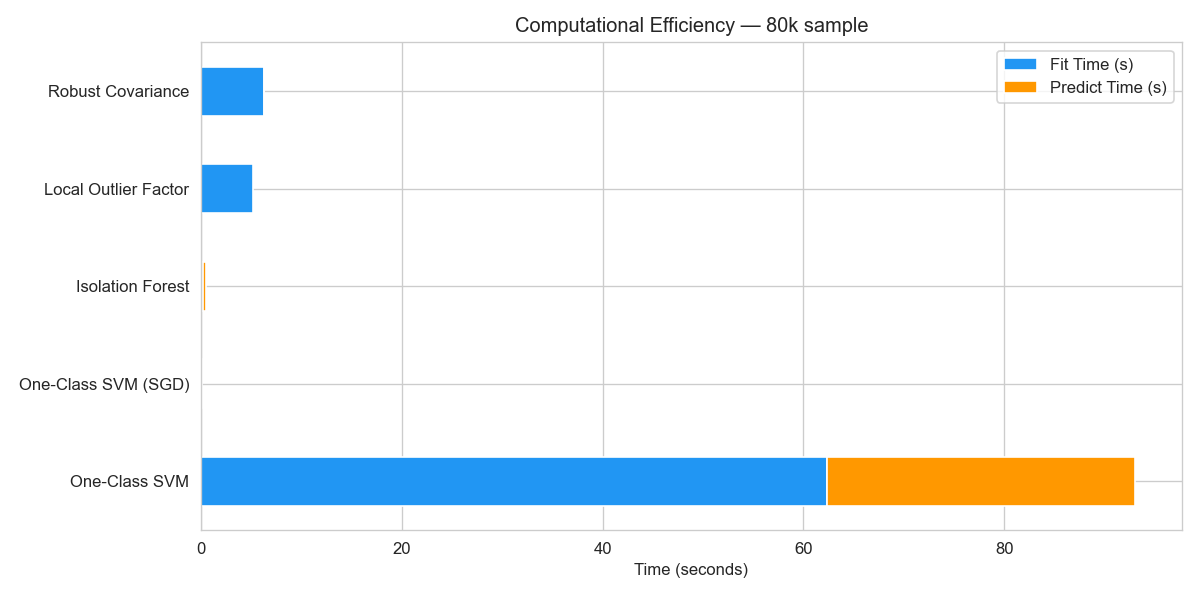
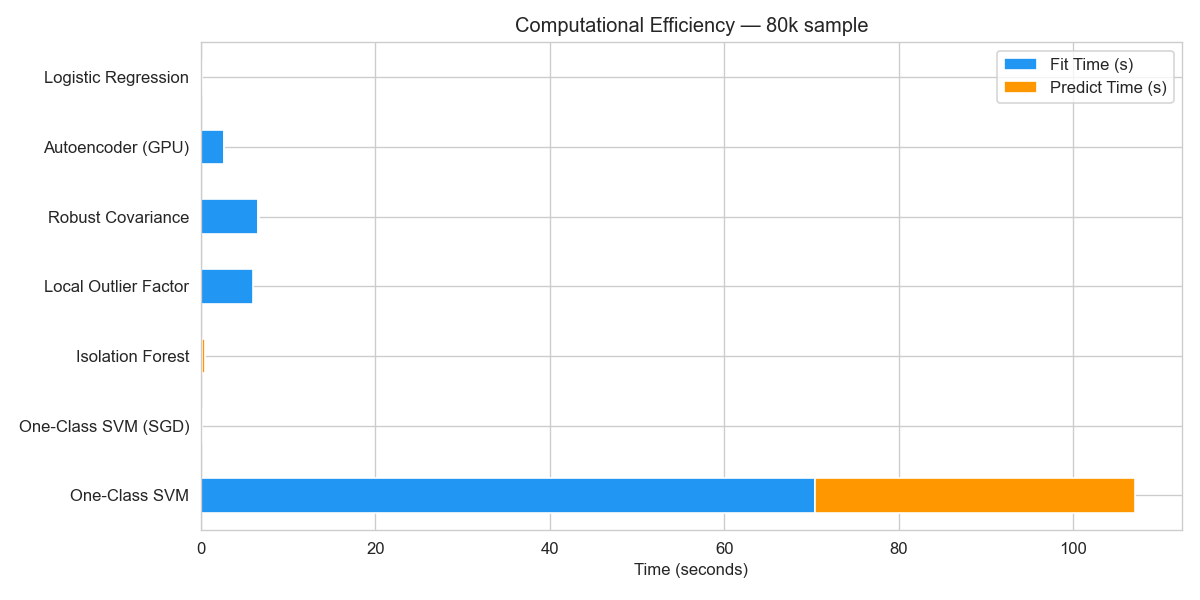
docs: add GPU autoencoder results and CPU/GPU caveat

diff --git a/README.md b/README.md
@@ -108,8 +108,9 @@ why **ROC-AUC**, which is threshold-independent, becomes the primary metric.
 | 3 | **Isolation Forest** | Random trees — anomalies need fewer splits to isolate |
 | 4 | **Local Outlier Factor** | Compares local density of a point to its neighbors (`novelty=False`, `fit_predict`) |
 | 5 | **Robust Covariance** | Fits a Gaussian ellipse — points outside = anomalies |
+| 6 | **Autoencoder (GPU)** | Neural net trained to reconstruct the data; reconstruction error = anomaly score. The only model trained on the GPU (PyTorch). |
 
-All five trained and scored on the identical 80,000-row subsample.
+All six trained and scored on the identical 80,000-row subsample.
 
 ### Results
 
@@ -120,6 +121,7 @@ All five trained and scored on the identical 80,000-row subsample.
 | Isolation Forest | 95.60% | 2.97% | 84.25% | 5.73% | 0.9612 | -26.75 | 4.51% |
 | Local Outlier Factor | 92.77% | 0.44% | 19.69% | 0.86% | 0.5481 | -44.63 | 7.14% |
 | Robust Covariance | 61.08% | 0.38% | 92.91% | 0.75% | 0.8882 | -244.53 | 39.05% |
+| Autoencoder (GPU) | 92.55% | 1.82% | 86.61% | 3.56% | 0.9523 | -46.01 | 7.57% |
 
 **Best ROC-AUC: One-Class SVM (0.9635)**, with Isolation Forest essentially tied
 (0.9612) and far more stable across sizes (see the sweep). On the **threshold-
@@ -135,6 +137,7 @@ thresholded F1 scores stay low for everyone. Best F1 at 80k is One-Class SVM
 - **Robust Covariance (good ranker, heavy over-flagging)** — ROC-AUC 0.8882 and recall 93%, but its MAD cutoff flags ~39% of all points, so precision is 0.38% and R² craters to ≈ -245. A good ranker wrecked by an over-eager threshold.
 - **Local Outlier Factor (collapsing)** — ROC-AUC just 0.5481, barely above random at 80k. Its local-density signal does not separate fraud at this scale, and the picture worsens with size (see the sweep).
 - **One-Class SVM (SGD) — inverted** — ROC-AUC 0.0504, *below* 0.5, i.e. worse than random: the linear SGD solver learns a near-inverted score, a genuine optimisation pathology rather than a data-volume issue.
+- **Autoencoder (GPU) — strong, stable unsupervised ranker** — ROC-AUC 0.9523 and recall 87% at 80k. Across all four sizes its ROC-AUC stays in the 0.93–0.97 band (high recall 84–89%), GPU-fast at 2.6–6.8 s. Its MAD cutoff over-flags at 7.6% implied contamination, so thresholded F1 (3.6%) stays low — the same threshold story that caps every other ranker here.
 
 R² is strongly negative for every model — binary predictions over-flag relative to the 0.17% base rate — and is most extreme for Robust Covariance (≈ -245). It confirms the over-flagging story but does not discriminate between the good and bad rankers; that job belongs to ROC-AUC.
 
@@ -142,20 +145,23 @@ R² is strongly negative for every model — binary predictions over-flag relati
 
 | Model | Fit Time (s) | Predict Time (s) | Total (s) |
 |-------|-------------|------------------|-----------|
-| One-Class SVM | 62.36 | 30.69 | 93.04 |
-| One-Class SVM (SGD) | 0.05 | 0.02 | 0.06 |
-| Isolation Forest | 0.18 | 0.29 | 0.46 |
-| Local Outlier Factor | 5.22 | 0.00 | 5.22 |
-| Robust Covariance | 6.24 | 0.03 | 6.28 |
+| One-Class SVM | 70.44 | 36.68 | 107.13 |
+| One-Class SVM (SGD) | 0.06 | 0.01 | 0.07 |
+| Isolation Forest | 0.17 | 0.31 | 0.47 |
+| Local Outlier Factor | 5.92 | 0.00 | 5.92 |
+| Robust Covariance | 6.59 | 0.03 | 6.62 |
+| Autoencoder (GPU) | 2.60 | 0.02 | 2.63 |
 
-One-Class SVM (RBF) is by far the slowest (~O(n²)) — and with `nu=0.05` it is now
-markedly slower than before (93 s at 80k). Isolation Forest is the strongest
+One-Class SVM (RBF) is by far the slowest (~O(n²)) — at 107 s at 80k it is
+markedly slower than Isolation Forest. Isolation Forest is the strongest
 ranker **and** the fastest with a real `predict`. LOF fits and predicts in one
 `fit_predict` step, so its predict time is reported as 0.
 
+> **CPU vs GPU caveat:** The Autoencoder is the only model trained on the GPU (PyTorch on an RTX 3050 Ti); the other models are CPU-only scikit-learn. Its runtime column therefore is **not apples-to-apples** — it includes GPU compute plus host↔device transfer on different hardware. **ROC-AUC, being threshold- and hardware-independent, is the fair cross-model comparison.** GPU training is also inherently CPU+GPU cooperative (the CPU loads and batches data; the GPU does the forward/backward math), so "GPU-only" training does not exist.
+
 **Plots generated:**
 1. Performance metrics bar chart (accuracy, precision, recall, F1)
-2. Confusion matrices for all 5 algorithms
+2. Confusion matrices for all 6 algorithms
 3. Computational efficiency comparison (horizontal bar chart)
 
 ### Limitations
@@ -192,6 +198,7 @@ quality directly rather than how well the MAD cutoff happens to match the base r
 |---|---|---|---|---|
 | **Isolation Forest** | **0.9809** | **0.9612** | **0.9489** | **0.9467** |
 | One-Class SVM | 0.9796 | 0.9635 | 0.9470 | 0.9430 |
+| Autoencoder (GPU) | 0.9718 | 0.9523 | 0.9325 | 0.9432 |
 | Robust Covariance | 0.9389 | 0.8882 | 0.9250 | 0.9191 |
 | Local Outlier Factor | 0.7696 | 0.5481 | 0.5052 | 0.5099 |
 | One-Class SVM (SGD) | 0.0185 | 0.0504 | 0.1389 | 0.3668 |
@@ -205,6 +212,7 @@ over-flags relative to the 0.17% base rate.
 |---|---|---|---|---|
 | One-Class SVM | 0.00% | 16.49% | 15.94% | 15.26% |
 | Isolation Forest | 5.10% | 5.73% | 5.89% | 5.47% |
+| Autoencoder (GPU) | 5.20% | 3.56% | 2.57% | 3.23% |
 | One-Class SVM (SGD) | 0.00% | 0.00% | 1.22% | 7.28% |
 | Local Outlier Factor | 1.28% | 0.86% | 0.68% | 0.64% |
 | Robust Covariance | 0.71% | 0.75% | 0.75% | 0.72% |
@@ -213,11 +221,12 @@ over-flags relative to the 0.17% base rate.
 
 | Model | 30k | 80k | 150k | 230k |
 |---|---|---|---|---|
-| Isolation Forest | 0.29 | 0.46 | 0.88 | 1.20 |
-| One-Class SVM (SGD) | 0.02 | 0.06 | 0.14 | 0.24 |
-| Robust Covariance | 2.63 | 6.28 | 12.12 | 20.46 |
-| Local Outlier Factor | 3.43 | 5.22 | 17.90 | 43.26 |
-| One-Class SVM | 13.85 | 93.04 | 324.66 | **717.48** |
+| One-Class SVM (SGD) | 0.03 | 0.07 | 0.17 | 0.28 |
+| Isolation Forest | 0.30 | 0.47 | 1.07 | 1.67 |
+| Autoencoder (GPU) | 2.67 | 2.63 | 5.25 | 6.82 |
+| Robust Covariance | 2.76 | 6.62 | 16.11 | 24.31 |
+| Local Outlier Factor | 3.55 | 5.92 | 25.39 | 57.15 |
+| One-Class SVM | 16.52 | 107.13 | 370.36 | **893.62** |
 
 ### What the sweep shows
 
@@ -233,9 +242,9 @@ over-flags relative to the 0.17% base rate.
   size, i.e. consistently worse than random. This is an optimisation pathology of
   the linear SGD solver, not a data-volume problem.
 - **Runtime: OCSVM is now both quadratic *and* slower** — with `nu=0.05` it runs
-  13.8 → 93 → 325 → 717 s for 30k → 230k (an empirical exponent ≈ 2.0, matching
+  16.5 → 107 → 370 → 894 s for 30k → 230k (an empirical exponent ≈ 2.0, matching
   kernel-matrix complexity). Isolation Forest stays effectively flat (0.3 s →
-  1.2 s), so more data buys OCSVM runtime, not ranking quality.
+  1.7 s), so more data buys OCSVM runtime, not ranking quality.
 
 Cross-size plots (`results/comparison/rocauc_vs_size.png`, `f1_vs_size.png`,
 `runtime_vs_size.png`) summarise this in one glance — `runtime_vs_size.png`
@@ -296,7 +305,7 @@ exactly the future work the paper recommends in its Conclusion and Limitations.
   practical anomaly detection scenarios"*.
 - **Our sample-size sweep extends the paper's scalability discussion** with
   empirical numbers: OCSVM's runtime exponent ≈ 2.0 (clean quadratic, now slower
-  at `nu=0.05`), while Isolation Forest stays effectively flat (0.3 s → 1.2 s for
+  at `nu=0.05`), while Isolation Forest stays effectively flat (0.3 s → 1.7 s for
   30k → 230k) and its ROC-AUC stays in the 0.95–0.98 band throughout.
 
 In short: this project is not a re-implementation of the paper — it is the
@@ -312,7 +321,7 @@ data-driven MAD cutoff on its own anomaly scores (`MAD_K=3.0`), so the true frau
 rate never touches the pipeline. Judged by the **threshold-independent ROC-AUC**,
 **Isolation Forest (0.95–0.98) and One-Class SVM (0.94–0.98) are excellent and
 stable rankers of fraud across 30k–230k rows** — Isolation Forest with the added
-advantage of being orders of magnitude faster (≈1.2 s at 230k vs ≈717 s for
+advantage of being orders of magnitude faster (≈1.7 s at 230k vs ≈894 s for
 OCSVM). Robust Covariance ranks well too (~0.89–0.94) but over-flags; LOF
 collapses to ~random and SGD-OCSVM is inverted.
 
@@ -331,6 +340,9 @@ operating threshold without labels remains the open problem.
 ```bash
 # Install dependencies
 pip install pandas numpy scikit-learn matplotlib seaborn jupyter tabulate
+# PyTorch with CUDA — install from https://pytorch.org for your CUDA version
+# (used by the GPU autoencoder; falls back to CPU automatically)
+# pip install torch  ← use the wheel from pytorch.org that matches your CUDA version
 
 # Start Jupyter
 cd detekcija-anomalija/src
@@ -353,6 +365,7 @@ Run notebooks in order (from `src/`):
 - seaborn
 - jupyter
 - tabulate (for the cross-size markdown summary)
+- torch — PyTorch with CUDA — install from https://pytorch.org for your CUDA version (used by the GPU autoencoder; falls back to CPU automatically)
 
 ---
 

diff --git a/results/comparison/summary.md b/results/comparison/summary.md
@@ -4,8 +4,10 @@
 
 | Model                |    30k |    80k |   150k |   230k |
 |:---------------------|-------:|-------:|-------:|-------:|
+| Autoencoder (GPU)    | 0.052  | 0.0356 | 0.0257 | 0.0323 |
 | Isolation Forest     | 0.051  | 0.0573 | 0.0589 | 0.0547 |
 | Local Outlier Factor | 0.0128 | 0.0086 | 0.0068 | 0.0064 |
+| Logistic Regression  | 0.1549 | 0.0976 | 0.086  | 0.098  |
 | One-Class SVM        | 0      | 0.1649 | 0.1594 | 0.1526 |
 | One-Class SVM (SGD)  | 0      | 0      | 0.0122 | 0.0728 |
 | Robust Covariance    | 0.0071 | 0.0075 | 0.0075 | 0.0072 |
@@ -14,8 +16,10 @@
 
 | Model                |    30k |    80k |   150k |   230k |
 |:---------------------|-------:|-------:|-------:|-------:|
+| Autoencoder (GPU)    | 0.8936 | 0.8661 | 0.8543 | 0.8363 |
 | Isolation Forest     | 0.8723 | 0.8425 | 0.8425 | 0.8414 |
 | Local Outlier Factor | 0.234  | 0.1969 | 0.1575 | 0.1483 |
+| Logistic Regression  | 0.7857 | 0.9211 | 0.9342 | 0.8974 |
 | One-Class SVM        | 0      | 0.4409 | 0.6339 | 0.6752 |
 | One-Class SVM (SGD)  | 0      | 0      | 0.0276 | 0.0767 |
 | Robust Covariance    | 0.9362 | 0.9291 | 0.9213 | 0.913  |
@@ -24,8 +28,10 @@
 
 | Model                |    30k |    80k |   150k |   230k |
 |:---------------------|-------:|-------:|-------:|-------:|
+| Autoencoder (GPU)    | 0.0268 | 0.0182 | 0.0131 | 0.0165 |
 | Isolation Forest     | 0.0263 | 0.0297 | 0.0305 | 0.0283 |
 | Local Outlier Factor | 0.0066 | 0.0044 | 0.0035 | 0.0033 |
+| Logistic Regression  | 0.0859 | 0.0515 | 0.0451 | 0.0518 |
 | One-Class SVM        | 0      | 0.1014 | 0.0912 | 0.086  |
 | One-Class SVM (SGD)  | 0      | 0      | 0.0079 | 0.0693 |
 | Robust Covariance    | 0.0036 | 0.0038 | 0.0038 | 0.0036 |
@@ -34,8 +40,10 @@
 
 | Model                |    30k |    80k |   150k |   230k |
 |:---------------------|-------:|-------:|-------:|-------:|
+| Autoencoder (GPU)    | 0.9718 | 0.9523 | 0.9325 | 0.9432 |
 | Isolation Forest     | 0.9809 | 0.9612 | 0.9489 | 0.9467 |
 | Local Outlier Factor | 0.7696 | 0.5481 | 0.5052 | 0.5099 |
+| Logistic Regression  | 0.9208 | 0.9606 | 0.9803 | 0.977  |
 | One-Class SVM        | 0.9796 | 0.9635 | 0.947  | 0.943  |
 | One-Class SVM (SGD)  | 0.0185 | 0.0504 | 0.1389 | 0.3668 |
 | Robust Covariance    | 0.9389 | 0.8882 | 0.925  | 0.9191 |
@@ -44,8 +52,10 @@
 
 | Model                |       30k |       80k |      150k |      230k |
 |:---------------------|----------:|----------:|----------:|----------:|
+| Autoencoder (GPU)    |  -31.6256 |  -46.0116 |  -63.8618 |  -49.2465 |
 | Isolation Forest     |  -31.4977 |  -26.7527 |  -25.9472 |  -28.1339 |
 | Local Outlier Factor |  -35.0565 |  -44.6315 |  -44.7744 |  -45.2884 |
+| Logistic Regression  |   -7.5848 |  -16.0533 |  -18.8889 |  -15.5494 |
 | One-Class SVM        |   -0.0016 |   -3.4717 |   -5.6964 |   -6.5115 |
 | One-Class SVM (SGD)  |   -0.1294 |   -3.1089 |   -3.4524 |   -0.9573 |
 | Robust Covariance    | -262.093  | -244.531  | -244.128  | -250.904  |
@@ -54,19 +64,23 @@
 
 | Model                |    30k |    80k |   150k |   230k |
 |:---------------------|-------:|-------:|-------:|-------:|
+| Autoencoder (GPU)    | 0.0523 | 0.0757 | 0.1108 | 0.0864 |
 | Isolation Forest     | 0.052  | 0.0451 | 0.0467 | 0.0506 |
 | Local Outlier Factor | 0.0556 | 0.0714 | 0.0762 | 0.0774 |
+| Logistic Regression  | 0.0142 | 0.0283 | 0.035  | 0.0294 |
 | One-Class SVM        | 0      | 0.0069 | 0.0118 | 0.0133 |
 | One-Class SVM (SGD)  | 0.0002 | 0.0049 | 0.0059 | 0.0019 |
 | Robust Covariance    | 0.4129 | 0.3905 | 0.4158 | 0.4289 |
 
 ## Total Time (s)
 
-| Model                |     30k |     80k |     150k |     230k |
-|:---------------------|--------:|--------:|---------:|---------:|
-| Isolation Forest     |  0.2861 |  0.4605 |   0.8761 |   1.2027 |
-| Local Outlier Factor |  3.4339 |  5.2181 |  17.9014 |  43.2557 |
-| One-Class SVM        | 13.8487 | 93.0412 | 324.659  | 717.478  |
-| One-Class SVM (SGD)  |  0.0158 |  0.0637 |   0.1431 |   0.2384 |
-| Robust Covariance    |  2.6294 |  6.2763 |  12.1171 |  20.457  |
+| Model                |     30k |      80k |     150k |     230k |
+|:---------------------|--------:|---------:|---------:|---------:|
+| Autoencoder (GPU)    |  2.6677 |   2.6277 |   5.2518 |   6.8173 |
+| Isolation Forest     |  0.299  |   0.4715 |   1.0748 |   1.6682 |
+| Local Outlier Factor |  3.5538 |   5.9179 |  25.392  |  57.1514 |
+| Logistic Regression  |  0.0855 |   0.1729 |   0.3531 |   0.5736 |
+| One-Class SVM        | 16.5208 | 107.125  | 370.362  | 893.618  |
+| One-Class SVM (SGD)  |  0.0251 |   0.0725 |   0.1692 |   0.2845 |
+| Robust Covariance    |  2.7585 |   6.6203 |  16.111  |  24.3117 |
 
